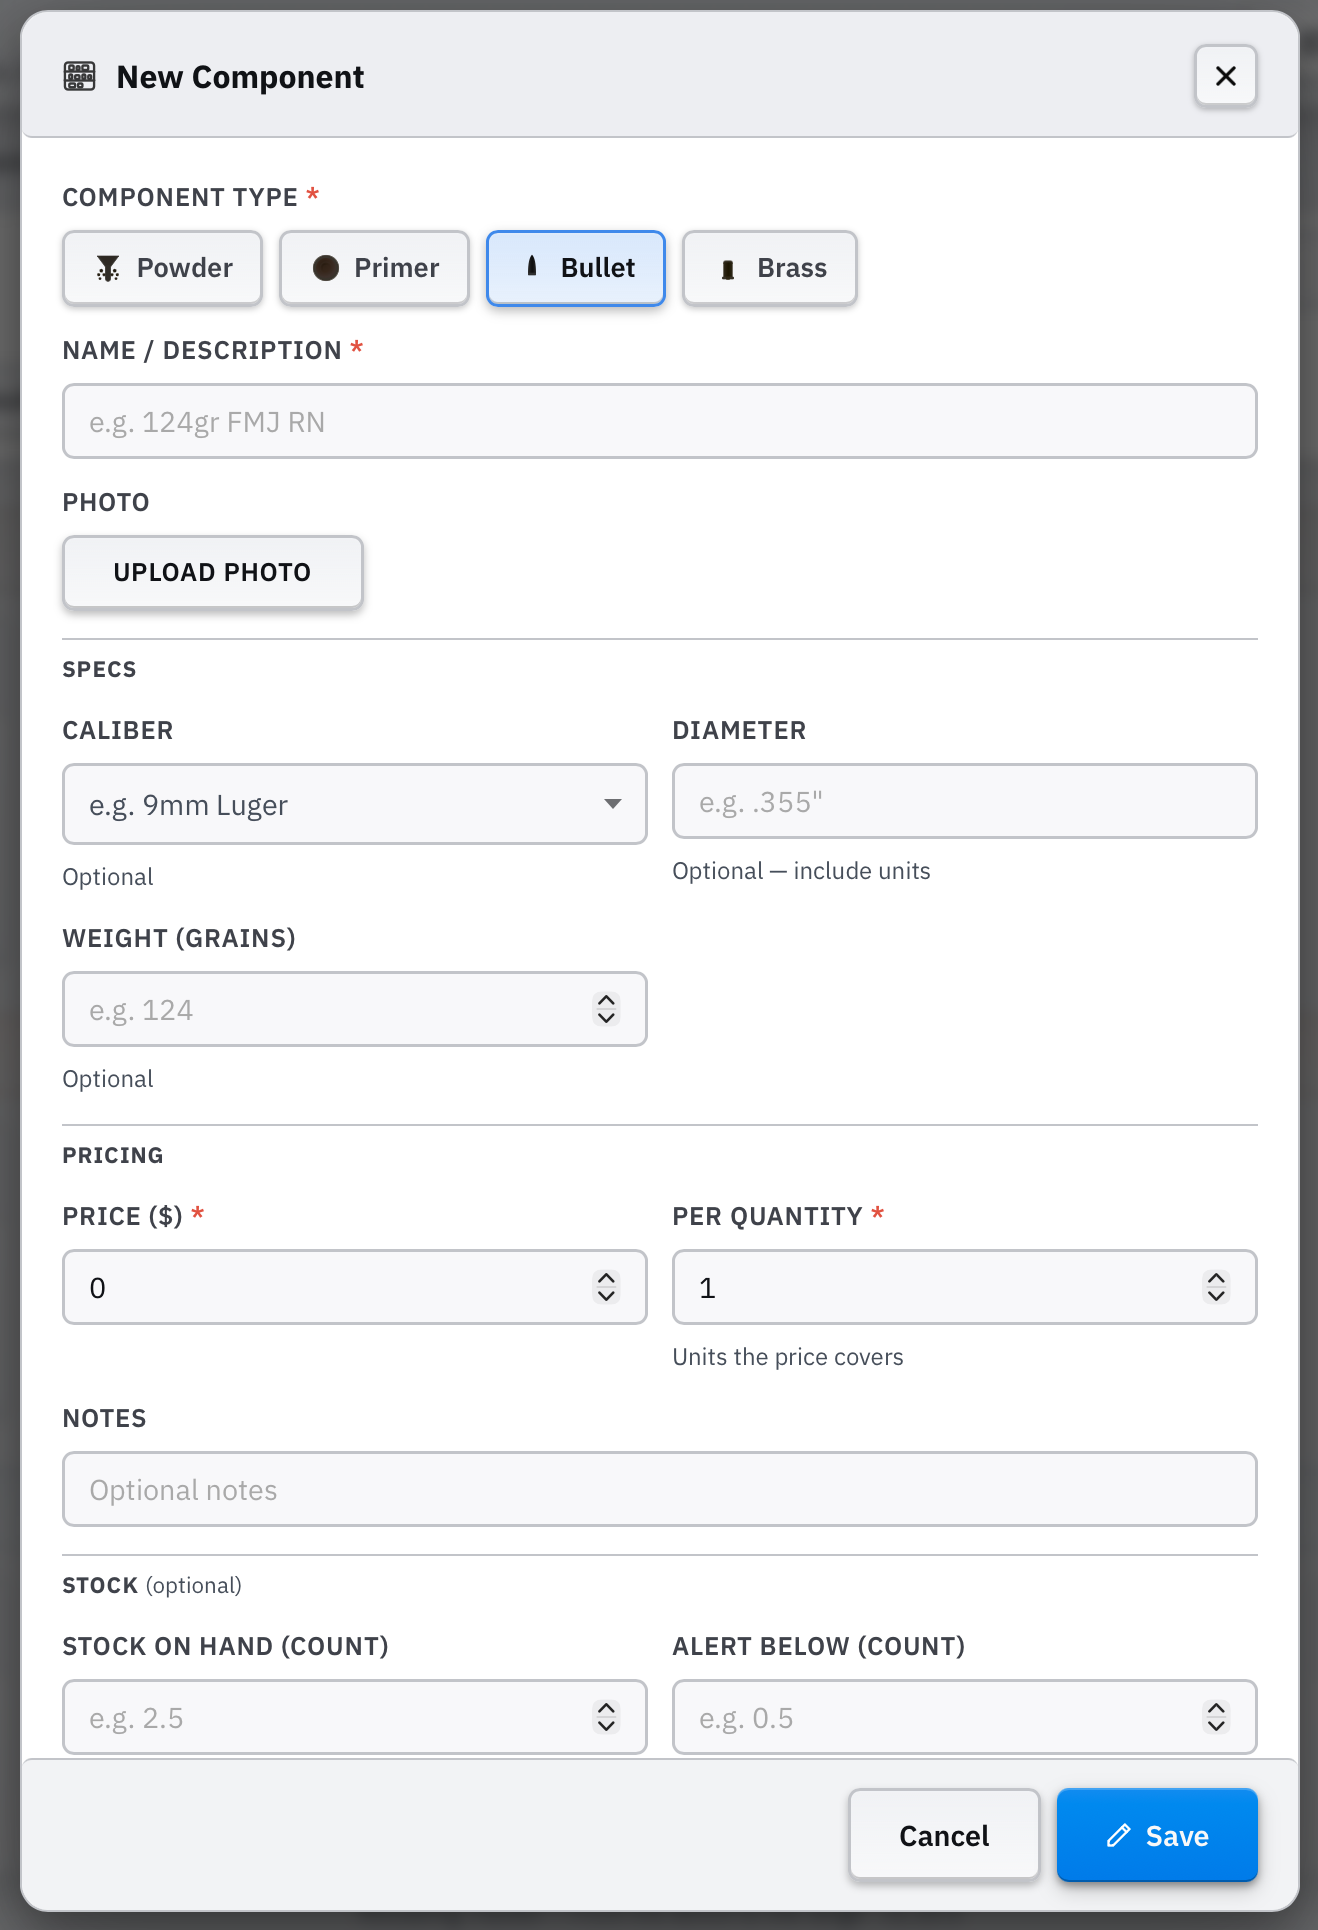
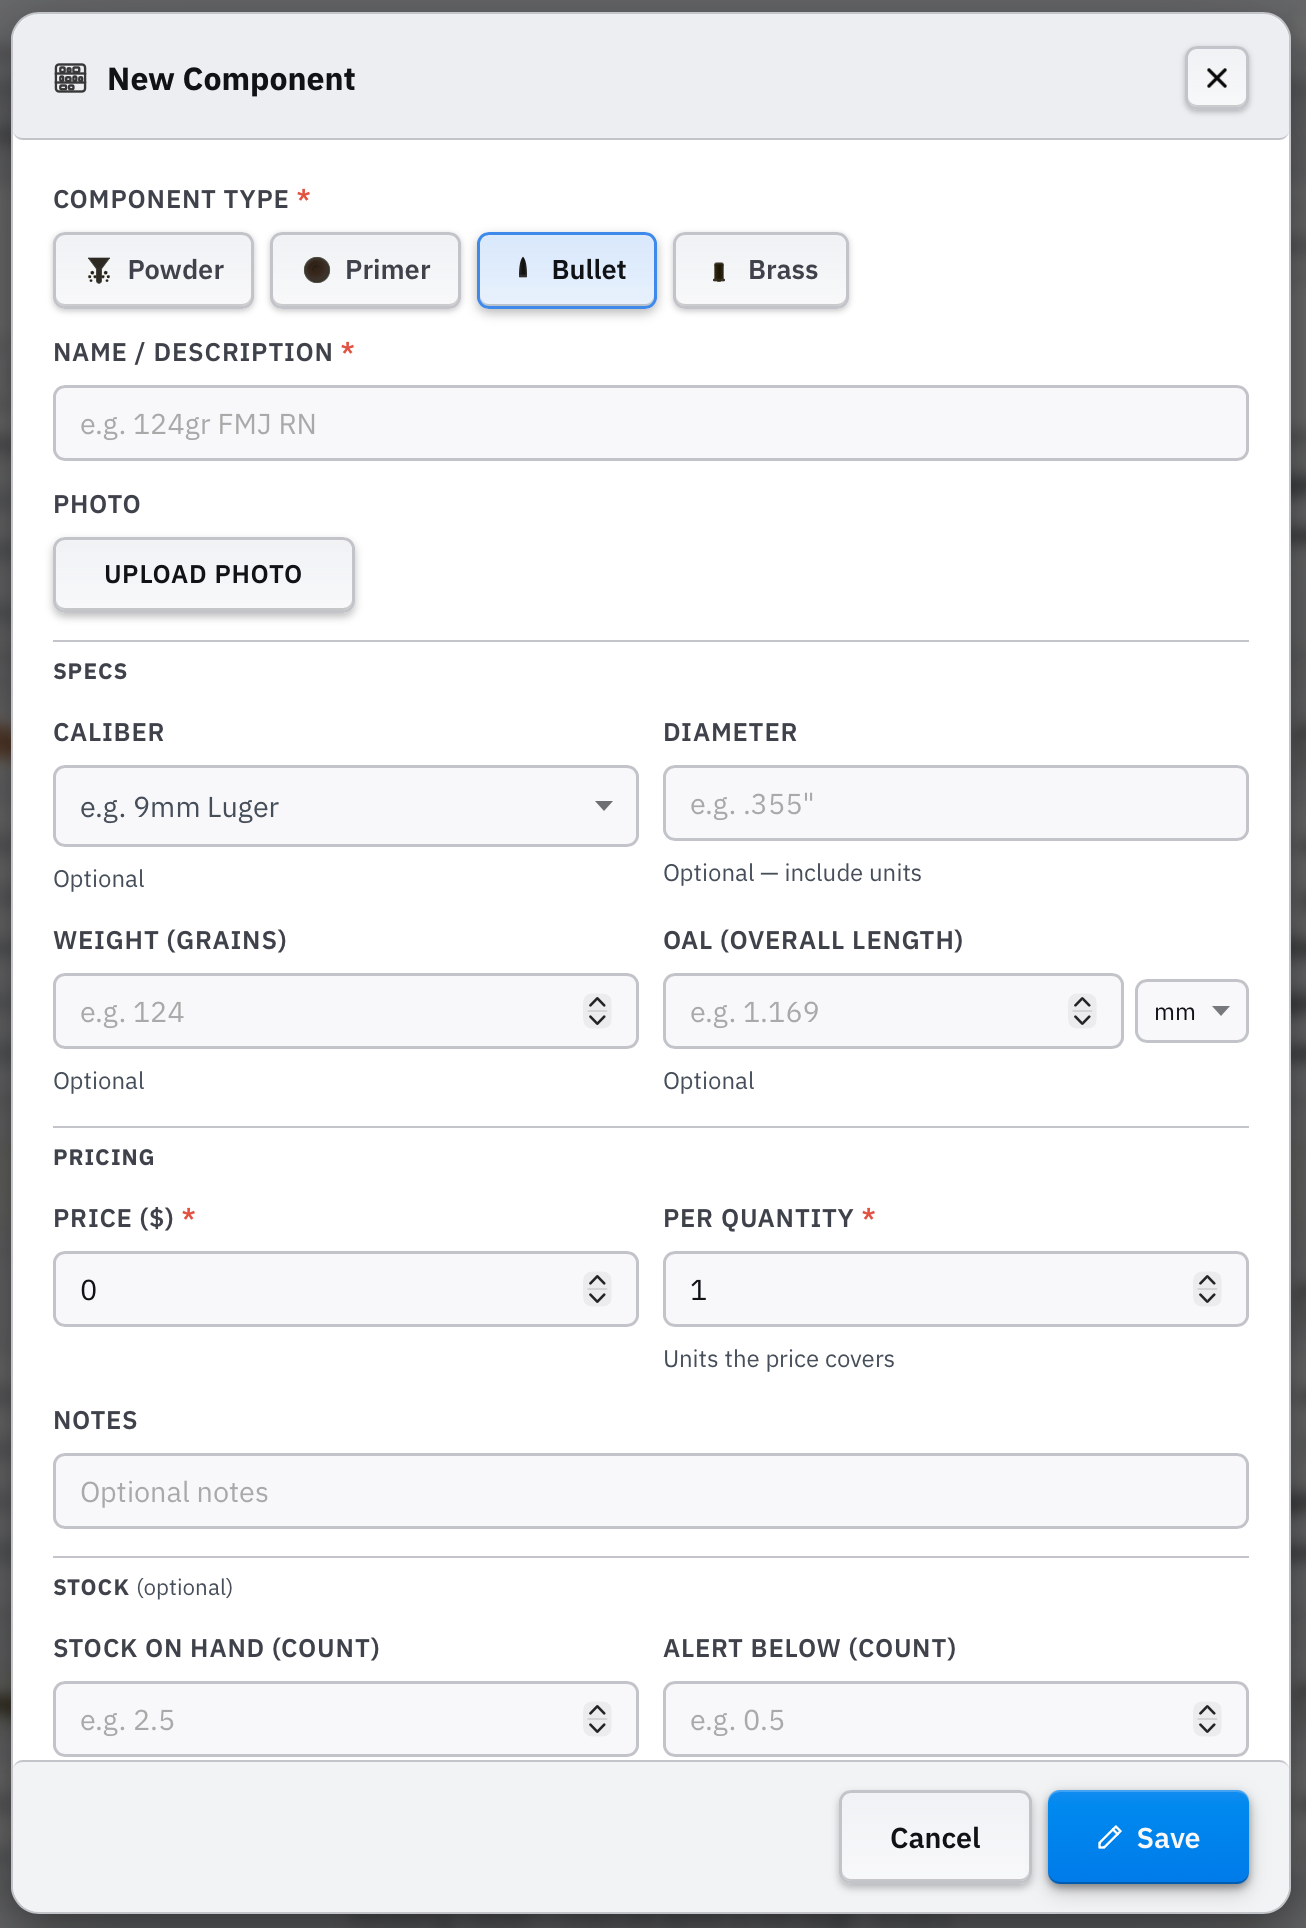
Updated add form and new data.

diff --git a/README.md b/README.md
@@ -1,4 +1,4 @@
-# Reloading Tracker 2.10.0: User Guide
+# Reloading Tracker 2.10.1: User Guide
 
 Reloading Tracker is your complete bench-to-range companion. It starts as a production log: define your loads, record every pressing session with a unique lot number, and print a label for every box on your shelf. And it grows with you from there.
 
@@ -461,6 +461,9 @@ The price you paid for the component. For powders this is the price per pound (I
 **Measurement System** *(powder only)*  
 Select **Imperial (lb)** or **Metric (kg)**. This carries through to any load that links to this powder.
 
+**OAL (Overall Length)** *(bullet only, optional)*  
+The bullet's overall length, with a unit dropdown (**in** or **mm**) next to it. The unit defaults to your app's Imperial/Metric setting; switching it converts the number you've already entered instead of just relabeling it, e.g. *1.169 in* becomes *29.6926 mm*.
+
 **Times Reloaded** *(brass only)*  
 How many reloads each case is expected to survive before replacement. This amortises the brass cost across that many rounds.
 
@@ -468,7 +471,7 @@ How many reloads each case is expected to survive before replacement. This amort
 Fields aimed at precision reloading, where case-to-case consistency matters as much as cost:
 - **Case Weight (gr)** - average case weight, useful for judging lot consistency or comparing to a new batch.
 - **Dedicated Rifle** - a searchable dropdown of your Firearms Registry profiles. Use this when a batch of brass is fire-formed to one chamber (common with tight-neck or custom chambers) and shouldn't be mixed with brass for another rifle in the same caliber.
-- **Shoulder Bump (in)** - the target shoulder bump you dial in when full-length sizing for this brass/rifle combination, e.g. *0.002*.
+- **Shoulder Bump** - the target shoulder bump you dial in when full-length sizing for this brass/rifle combination, e.g. *0.002*, with the same **in / mm** unit dropdown as OAL - switching units converts the number instead of just relabeling it.
 
 **Annealing** *(brass only, optional)*  
 - **Annealer** - the machine or method used, e.g. *AMP Press*, *torch*.
@@ -496,7 +499,7 @@ Each component card shows:
 - **Price**: the effective per-unit cost (e.g. *$22.50/lb*, or *$0.16 ea* for a primer). The raw price and quantity you entered stay editable as two separate fields in the form; only the derived per-unit figure is shown in the card or table to keep the list compact.
 - **Stock**: current quantity on hand, shown only when a stock quantity has been entered. Powder stock is shown to four decimal places; all other types show a whole number. A **Low** badge appears inline when the quantity is at or below the configured threshold.
 - Brass **Reloads** count (brass cards only)
-- Bullet **caliber**, **diameter** and **weight** (bullets only)
+- Bullet **caliber**, **diameter**, **weight**, and **OAL** (bullets only)
 - Notes (if any)
 
 For brass with any **Consistency & Fit** or **Annealing** fields set, a **Details** row appears with one or two small icon buttons - a ruler for Consistency & Fit, a flame for Annealing. Hover (or focus) an icon to see the full details in a tooltip; icons only appear for the categories that actually have data entered.
@@ -518,6 +521,12 @@ Each component card has three action buttons:
 In **Table view**, the **Stock** column shows the current quantity on hand for each component, formatted with a unit suffix (*primers*, *rounds*, *cases*, *lb*, or *kg*). Components with no stock quantity set show a dash (-). A **Low** badge appears in the same cell when stock is at or below the threshold.
 
 For brass, an **Info** column shows the same Consistency & Fit / Annealing icon buttons as the card view, keeping the table compact instead of adding a separate column per field.
+
+**Sorting**
+
+In **Card view**, use the **Sort** dropdown to order components by **A–Z**, **Price**, **Stock**, or **None** (the order they were added). The arrow button next to it flips between ascending and descending; it's disabled when **None** is selected since there's nothing to reverse.
+
+In **Table view**, the dropdown is hidden - instead, click the **Name**, **Price**, or **Stock** column header directly to sort by that column. Clicking the same header again cycles through ascending, descending, and back to no sort. Switching between Card and Table view always resets sorting to **None**, so a sort applied in one view never carries over unseen into the other.
 
 **Photo thumbnails**
 
